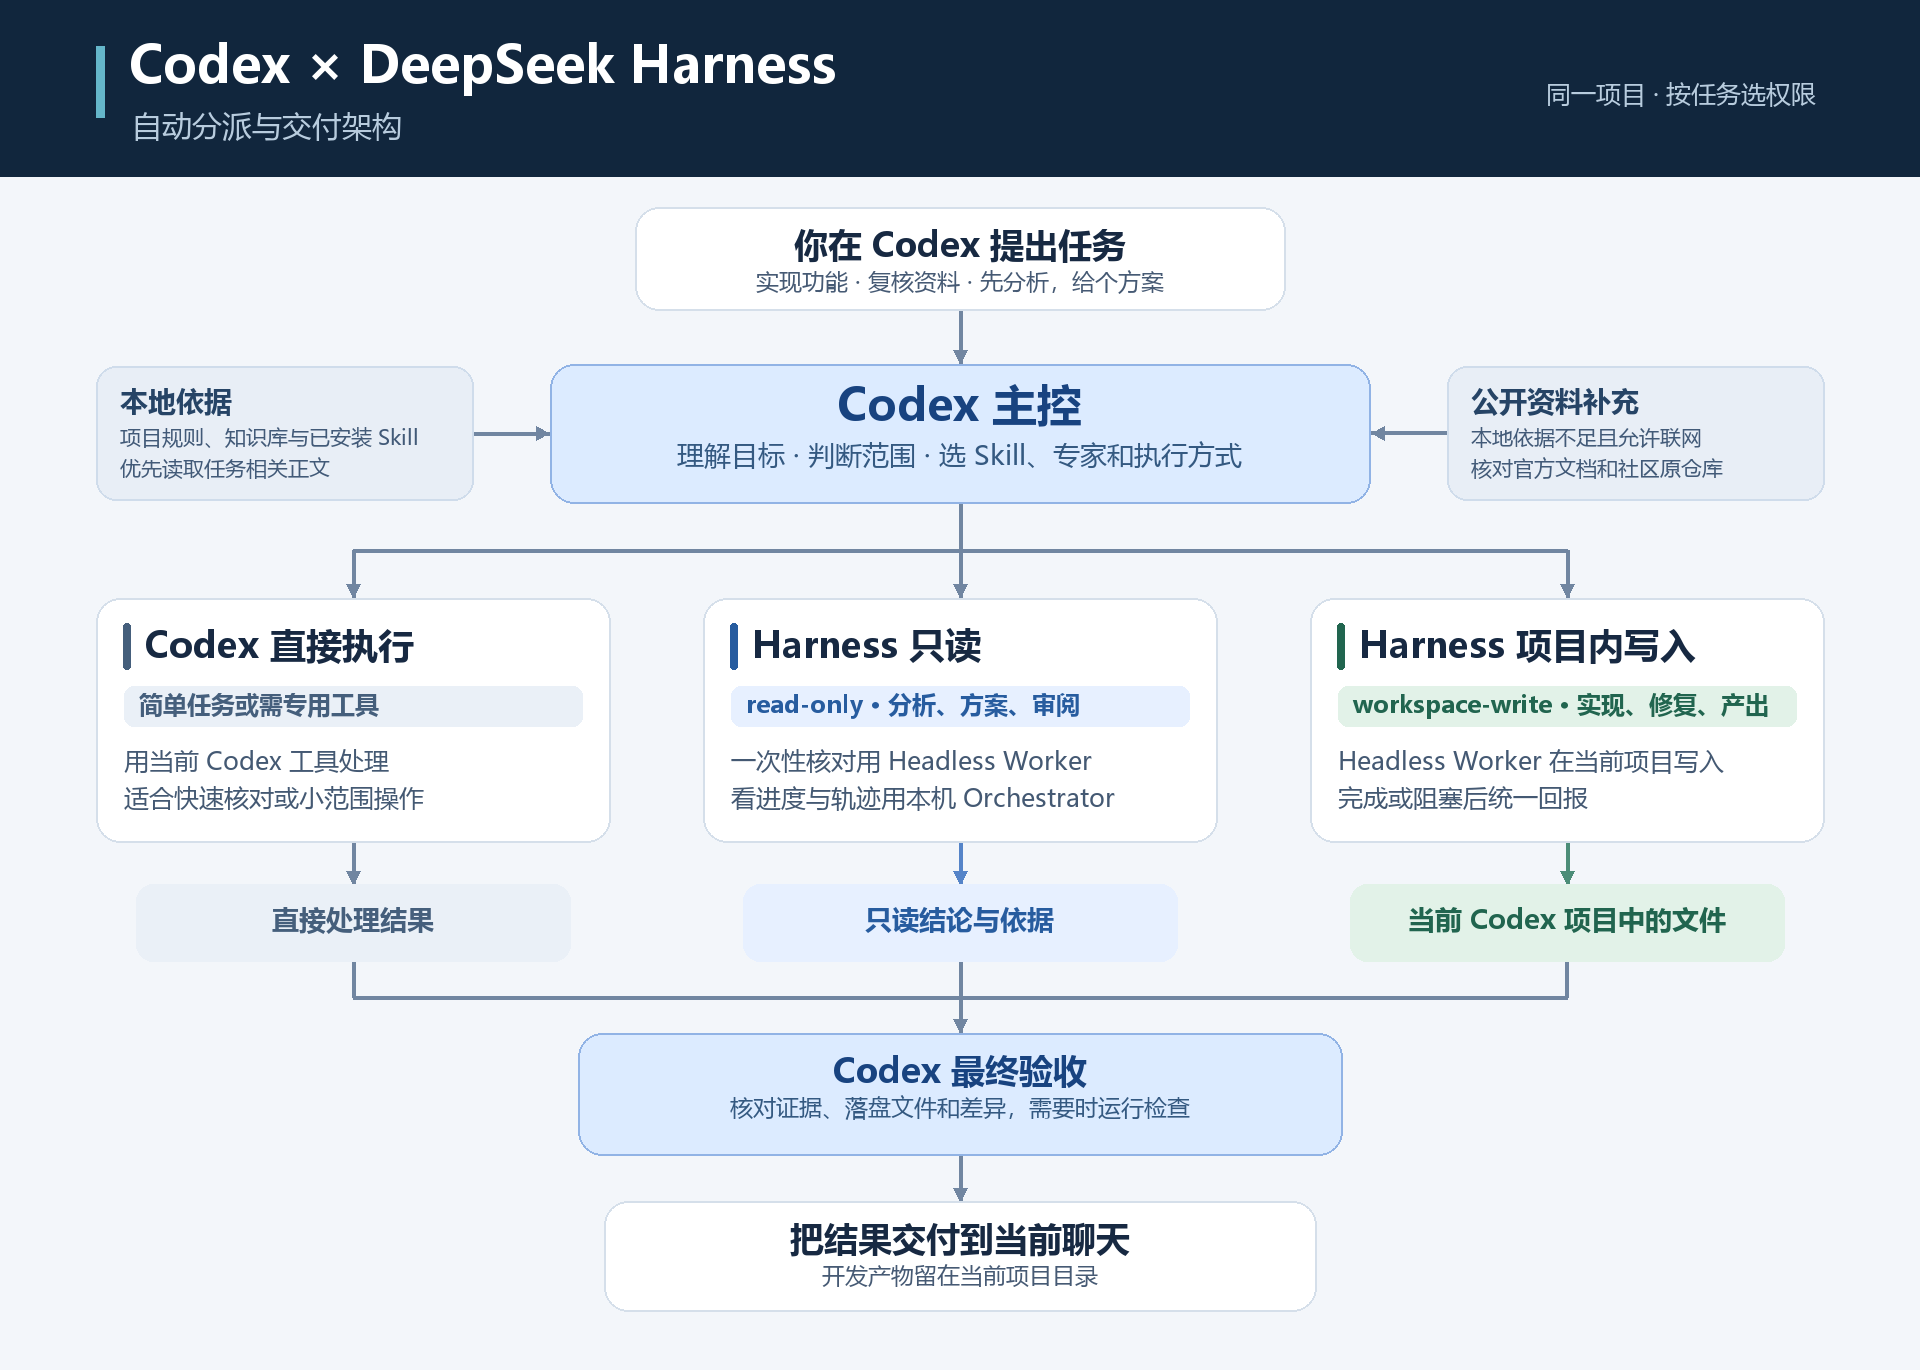
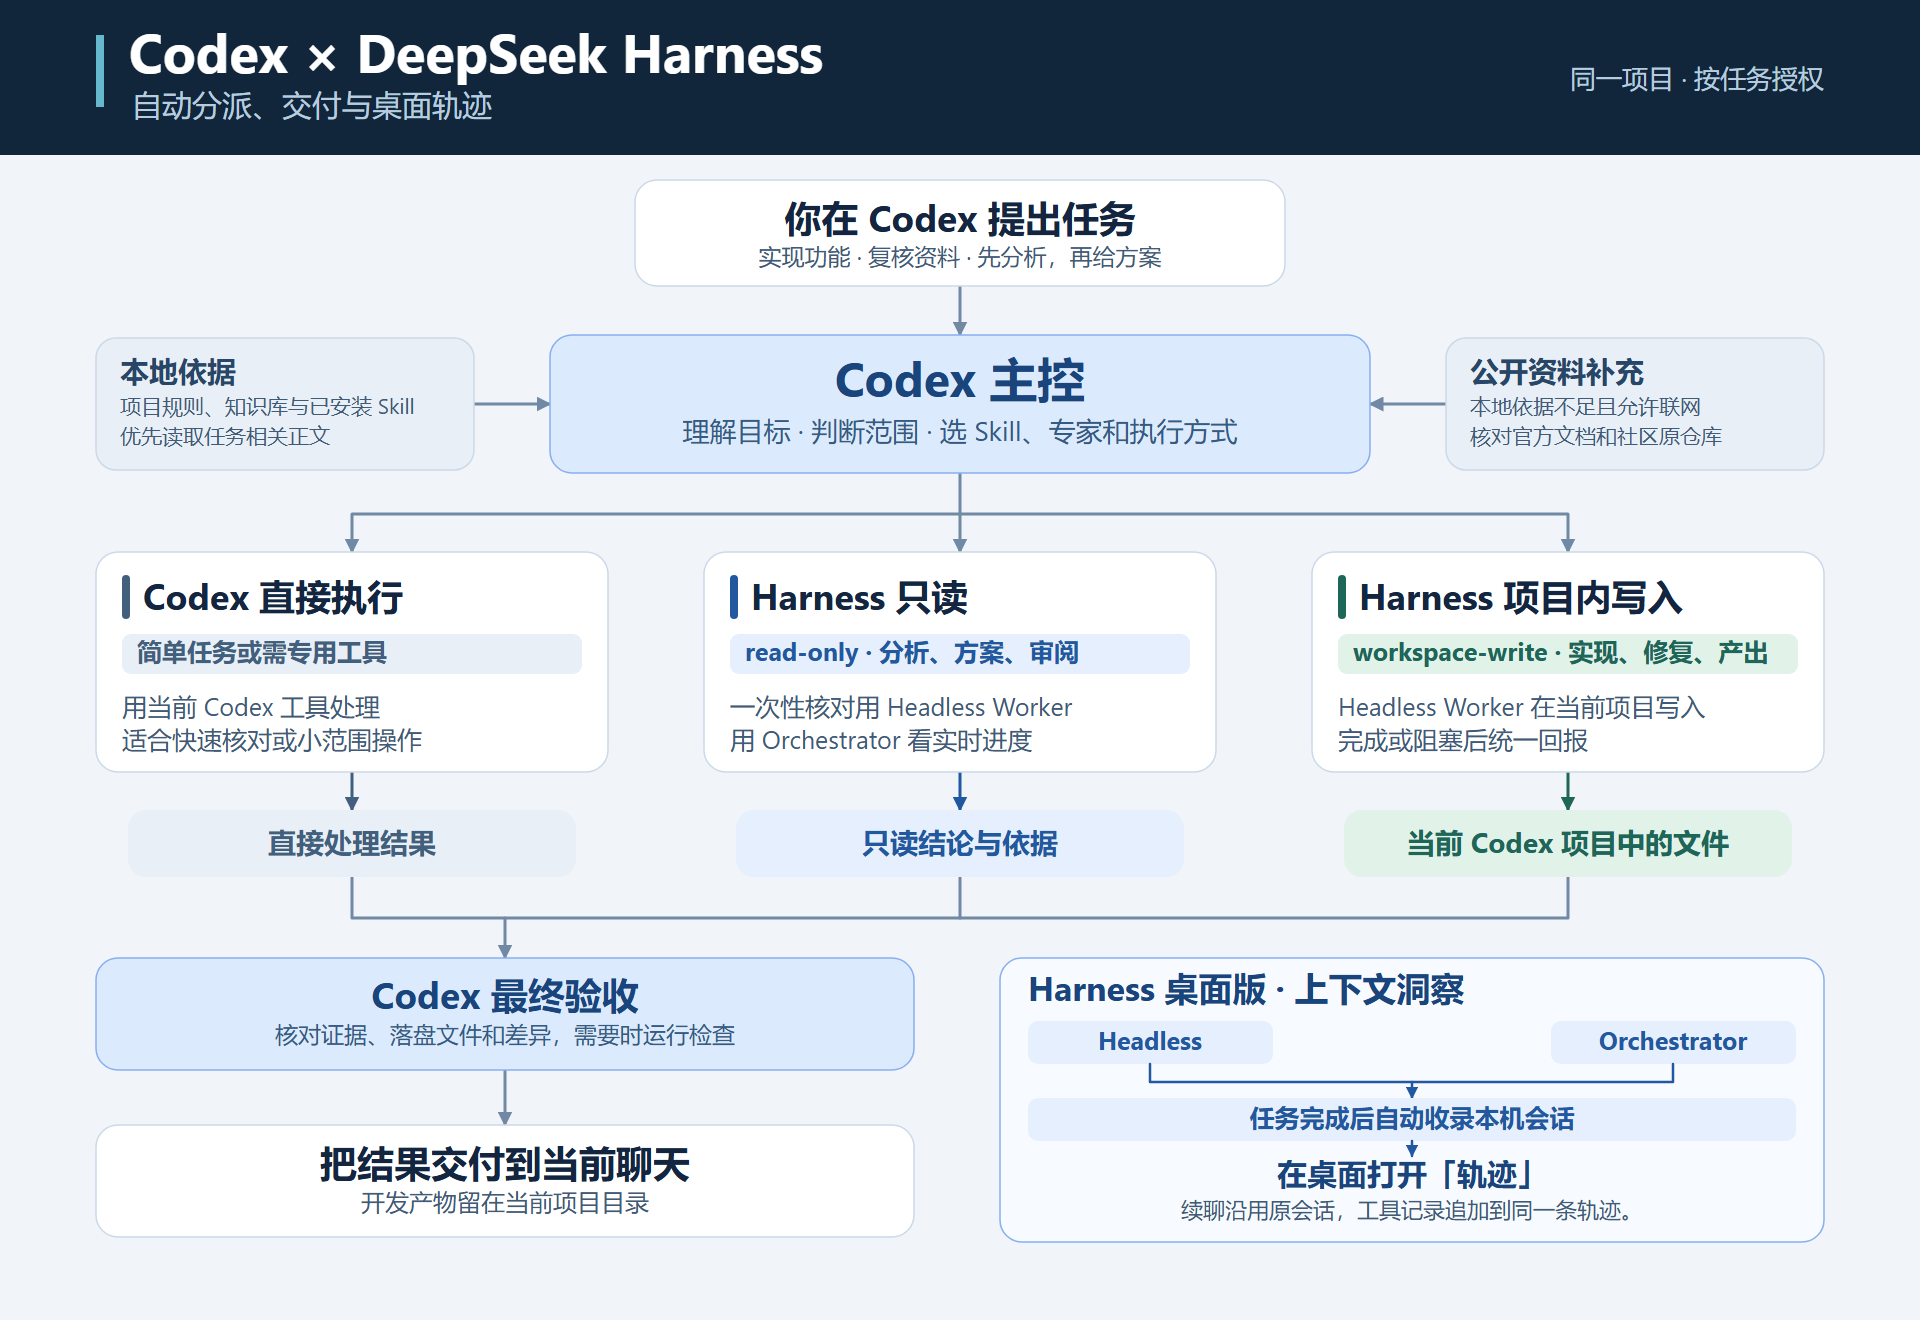
Document desktop session traces in both architecture diagrams

diff --git a/README.md b/README.md
@@ -14,7 +14,7 @@ In a synthetic run of that workflow, Codex audited the packet locally and assign
 
 ## Architecture
 
-![Codex coordinates direct work, Harness read-only reviews, and project edits, then verifies the delivered result](docs/architecture.en.png)
+![Codex supervises and verifies three execution routes. Completed Headless and Orchestrator sessions appear in Desktop Context Insights, with follow-ups in the same trace.](docs/architecture.en.png)
 
 ## Quick start
 
